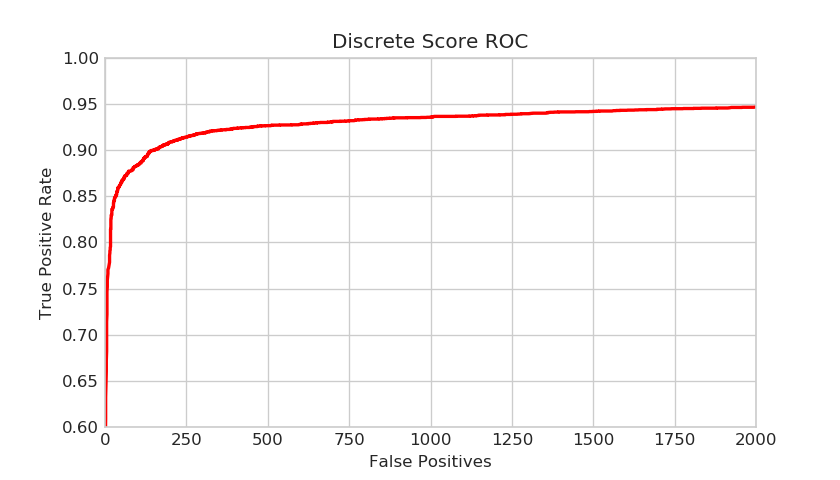
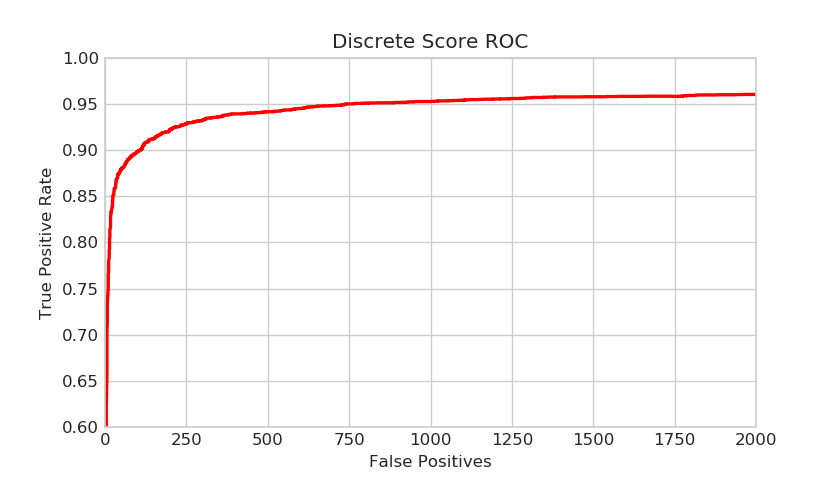
fddb 0.952 512

Changed region(s): [[0.1238, 0.1875, 0.8976, 0.5312], [0.1238, 0.5938, 0.1548, 0.625]]

diff --git a/lib/core/base_trainer/net_work.py b/lib/core/base_trainer/net_work.py
@@ -53,7 +53,10 @@ class trainner():
                                              cfg.TRAIN.lr_decay_every_step,
                                              cfg.TRAIN.lr_value_every_step
                                              )
-            opt = tf.train.MomentumOptimizer(lr, momentum=0.9, use_nesterov=False)
+            ##opt = tf.train.MomentumOptimizer(lr, momentum=0.9, use_nesterov=False)
+
+            ###adam seems better
+            opt = tf.train.AdamOptimizer(lr)
             return opt,lr,global_step
 
     def load_weight(self):

diff --git a/README.md b/README.md
@@ -9,14 +9,17 @@ It‘s a ssd-like object detect framework, but slightly different,
 ps, the code maybe not that clear, please be patience, i am still working on it, and forgive me for my poor english :)
 
 pretrained model can be download from
-https://pan.baidu.com/s/1cUqnf9BwUVkCy0iT6EczKA ( password ty4d )
+
++ [baidu disk](https://pan.baidu.com/s/1DzbFYjcjcbXO4C494IB2TA) (code eb6b )
+
++ [google drive](https://drive.google.com/drive/folders/1mV7I9UR_DjF91Wd2P6TqMQhMIOpcBWRJ?usp=sharing)
 
 
 evaluation result on fddb
 
 | fddb   |
 | :------: | 
-|  0.94 | 
+|  0.952 | 
 
 
 ## requirment
